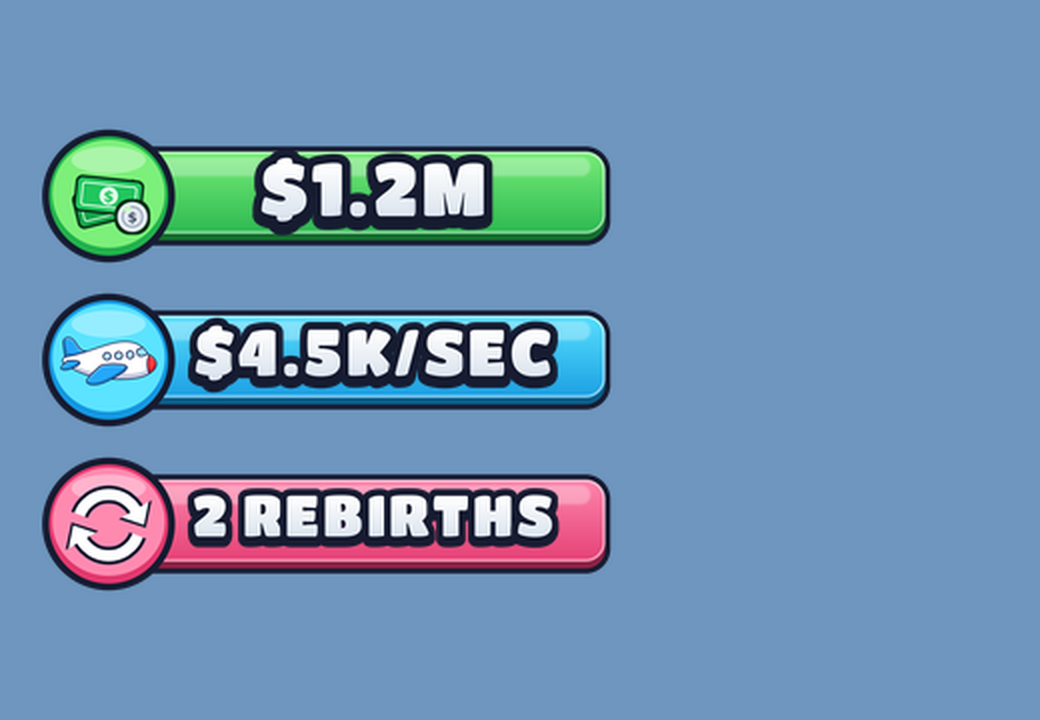
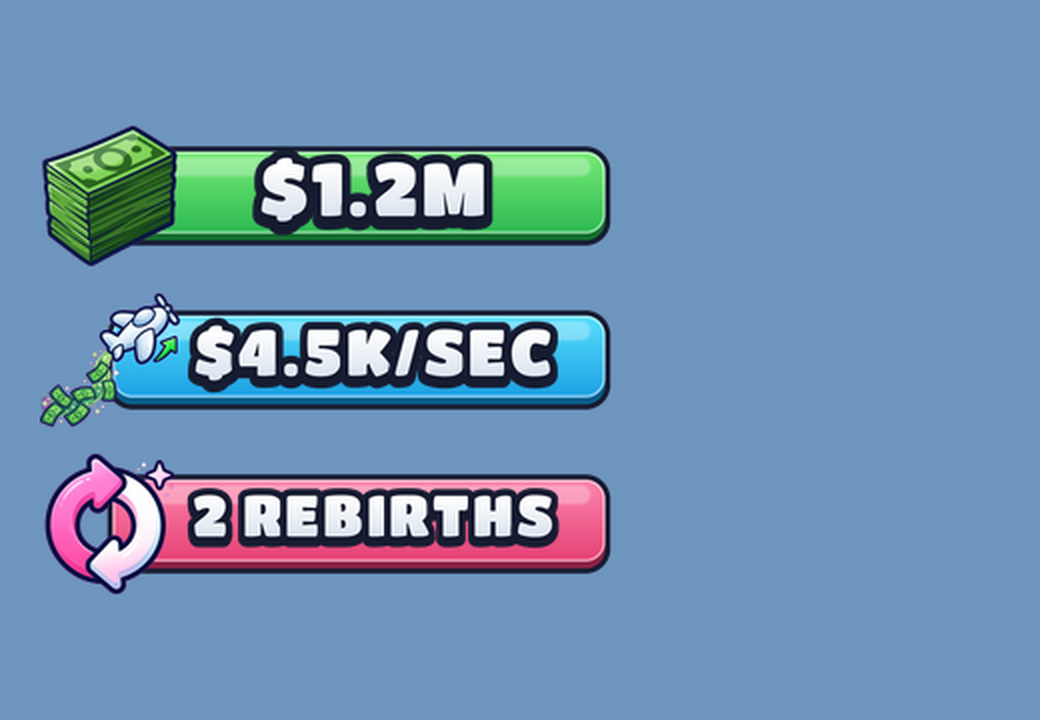
Compteur a gauche : les 3 icones du joueur (Gemini, fond magenta detoure) posees sur les barres cartoon
Claude-Session: https://claude.ai/code/session_01PMKoCjSrSzXqgN9hvh9Gpz

Changed region(s): [[0.0308, 0.3972, 0.1846, 0.825], [0.0308, 0.1528, 0.1846, 0.3667]]

diff --git a/Outils/interface_cartoon.py b/Outils/interface_cartoon.py
@@ -300,34 +300,20 @@ def fleches_rebirth(T):
 
 
 def hud():
-    """Les 3 barres du compteur a gauche de l'ecran (Textures/Interface) : pastille ronde avec
-    l'icone a gauche, barre cartoon a droite. 1024 x 256 (affichees 288 x 72 dans le jeu)."""
+    """Les 3 barres du compteur a gauche de l'ecran (Textures/Interface) : l'icone du joueur
+    (Textures/Interface/source/Icone_*.png, faites avec Gemini, fond detoure) posee a gauche,
+    par-dessus une barre cartoon. 1024 x 256 (affichees 288 x 72 dans le jeu)."""
     dossier = os.path.join(RACINE, "Textures", "Interface")
     W, H = 1024, 256
-    avion = Image.open(os.path.join(RACINE, "Textures", "JaugeVol", "Avion.png")).convert("RGBA")
-    argent = Image.open(os.path.join(KIT, "IconeArgent.png")).convert("RGBA")
-    for nom, haut, bas, icone in (("FondArgent", "7CF07A", "22B24C", argent),
-                                  ("FondRevenu", "5BE3FF", "1497E0", avion),
-                                  ("FondRebirth", "FF8AB0", "E2386E", fleches_rebirth(512))):
+    for nom, haut, bas, icone in (("FondArgent", "7CF07A", "22B24C", "Icone_Argent"),
+                                  ("FondRevenu", "5BE3FF", "1497E0", "Icone_Revenu"),
+                                  ("FondRebirth", "FF8AB0", "E2386E", "Icone_Rebirth")):
         im = Image.new("RGBA", (W, H), (0, 0, 0, 0))
-        barre = piece("_tmp", W - 120, 176, 44, haut, bas, ep=9, levre=12, reflet=0.30, dossier=dossier)
-        im.alpha_composite(barre, (110, 40))
-        # pastille : disque blanc bleute a gros contour, reflet, icone dedans
-        P = 236
-        p = Image.new("RGBA", (P * K, P * K), (0, 0, 0, 0))
-        dp = ImageDraw.Draw(p)
-        dp.ellipse([0, 0, P * K - 1, P * K - 1], fill=CONTOUR)
-        e = 12 * K
-        dp.ellipse([e, e, P * K - 1 - e, P * K - 1 - e], fill=hexa(bas))
-        dp.ellipse([e + 6 * K, e + 6 * K, P * K - 1 - e - 6 * K, P * K - 1 - e - 14 * K], fill=hexa(haut))
-        reflet = Image.new("RGBA", p.size, (0, 0, 0, 0))
-        ImageDraw.Draw(reflet).ellipse([e + 40 * K, e + 18 * K, P * K - 1 - e - 40 * K, e + 66 * K], fill=(255, 255, 255, 90))
-        p.alpha_composite(reflet)
-        p = p.resize((P, P), Image.LANCZOS)
-        ic = icone.copy()
-        ic.thumbnail((182, 182), Image.LANCZOS)
-        p.alpha_composite(ic, ((P - ic.width) // 2, (P - ic.height) // 2 + 2))
-        im.alpha_composite(p, (4, 10))
+        barre = piece("_tmp", W - 130, 176, 44, haut, bas, ep=9, levre=12, reflet=0.30, dossier=dossier)
+        im.alpha_composite(barre, (120, 40))
+        ic = Image.open(os.path.join(dossier, "source", icone + ".png")).convert("RGBA")
+        ic.thumbnail((250, 250), Image.LANCZOS)
+        im.alpha_composite(ic, ((240 - ic.width) // 2 + 4, (H - ic.height) // 2))
         im.save(os.path.join(dossier, nom + ".png"))
     os.remove(os.path.join(dossier, "_tmp.png"))
 
